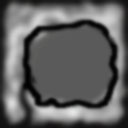
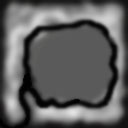
Galho é retirado do mapa quando é apanhado

Changed region(s): [[0.125, 0.5938, 0.4062, 0.9375], [0.5312, 0.75, 0.625, 0.8125], [0.4688, 0.8438, 0.5, 0.875]]

diff --git a/projB/MyScene.js b/projB/MyScene.js
@@ -138,6 +138,7 @@ class MyScene extends CGFscene {
             this.objects[3].Y = 7;
             this.objects[3].rotation = 0;
             this.objects[3].speed = 0;
+            this.objects[3].hasBranch = false;
         }
 
         if(keysPressed){
@@ -151,6 +152,7 @@ class MyScene extends CGFscene {
             if ((this.branches[i].deltaX <= this.objects[3].deltaX + 3) && (this.branches[i].deltaX >= this.objects[3].deltaX - 3))
                 if ((this.branches[i].deltaZ <= this.objects[3].deltaZ + 3) && (this.branches[i].deltaZ >= this.objects[3].deltaZ - 3))
                 {
+                    this.branches.splice(i,1);
                     return true;
                 }
         }
@@ -181,11 +183,9 @@ class MyScene extends CGFscene {
         // aplly main appearance (including texture in default texture unit 0)
         this.objects[3].display();
 
-        this.branches[0].display();
-        this.branches[1].display();
-        this.branches[2].display();
-        this.branches[3].display();
-        this.branches[4].display();
+        for (var i = 0; i < this.branches.length; i++) {
+            this.branches[i].display();
+        }
         
         this.objects[4].display();
 
